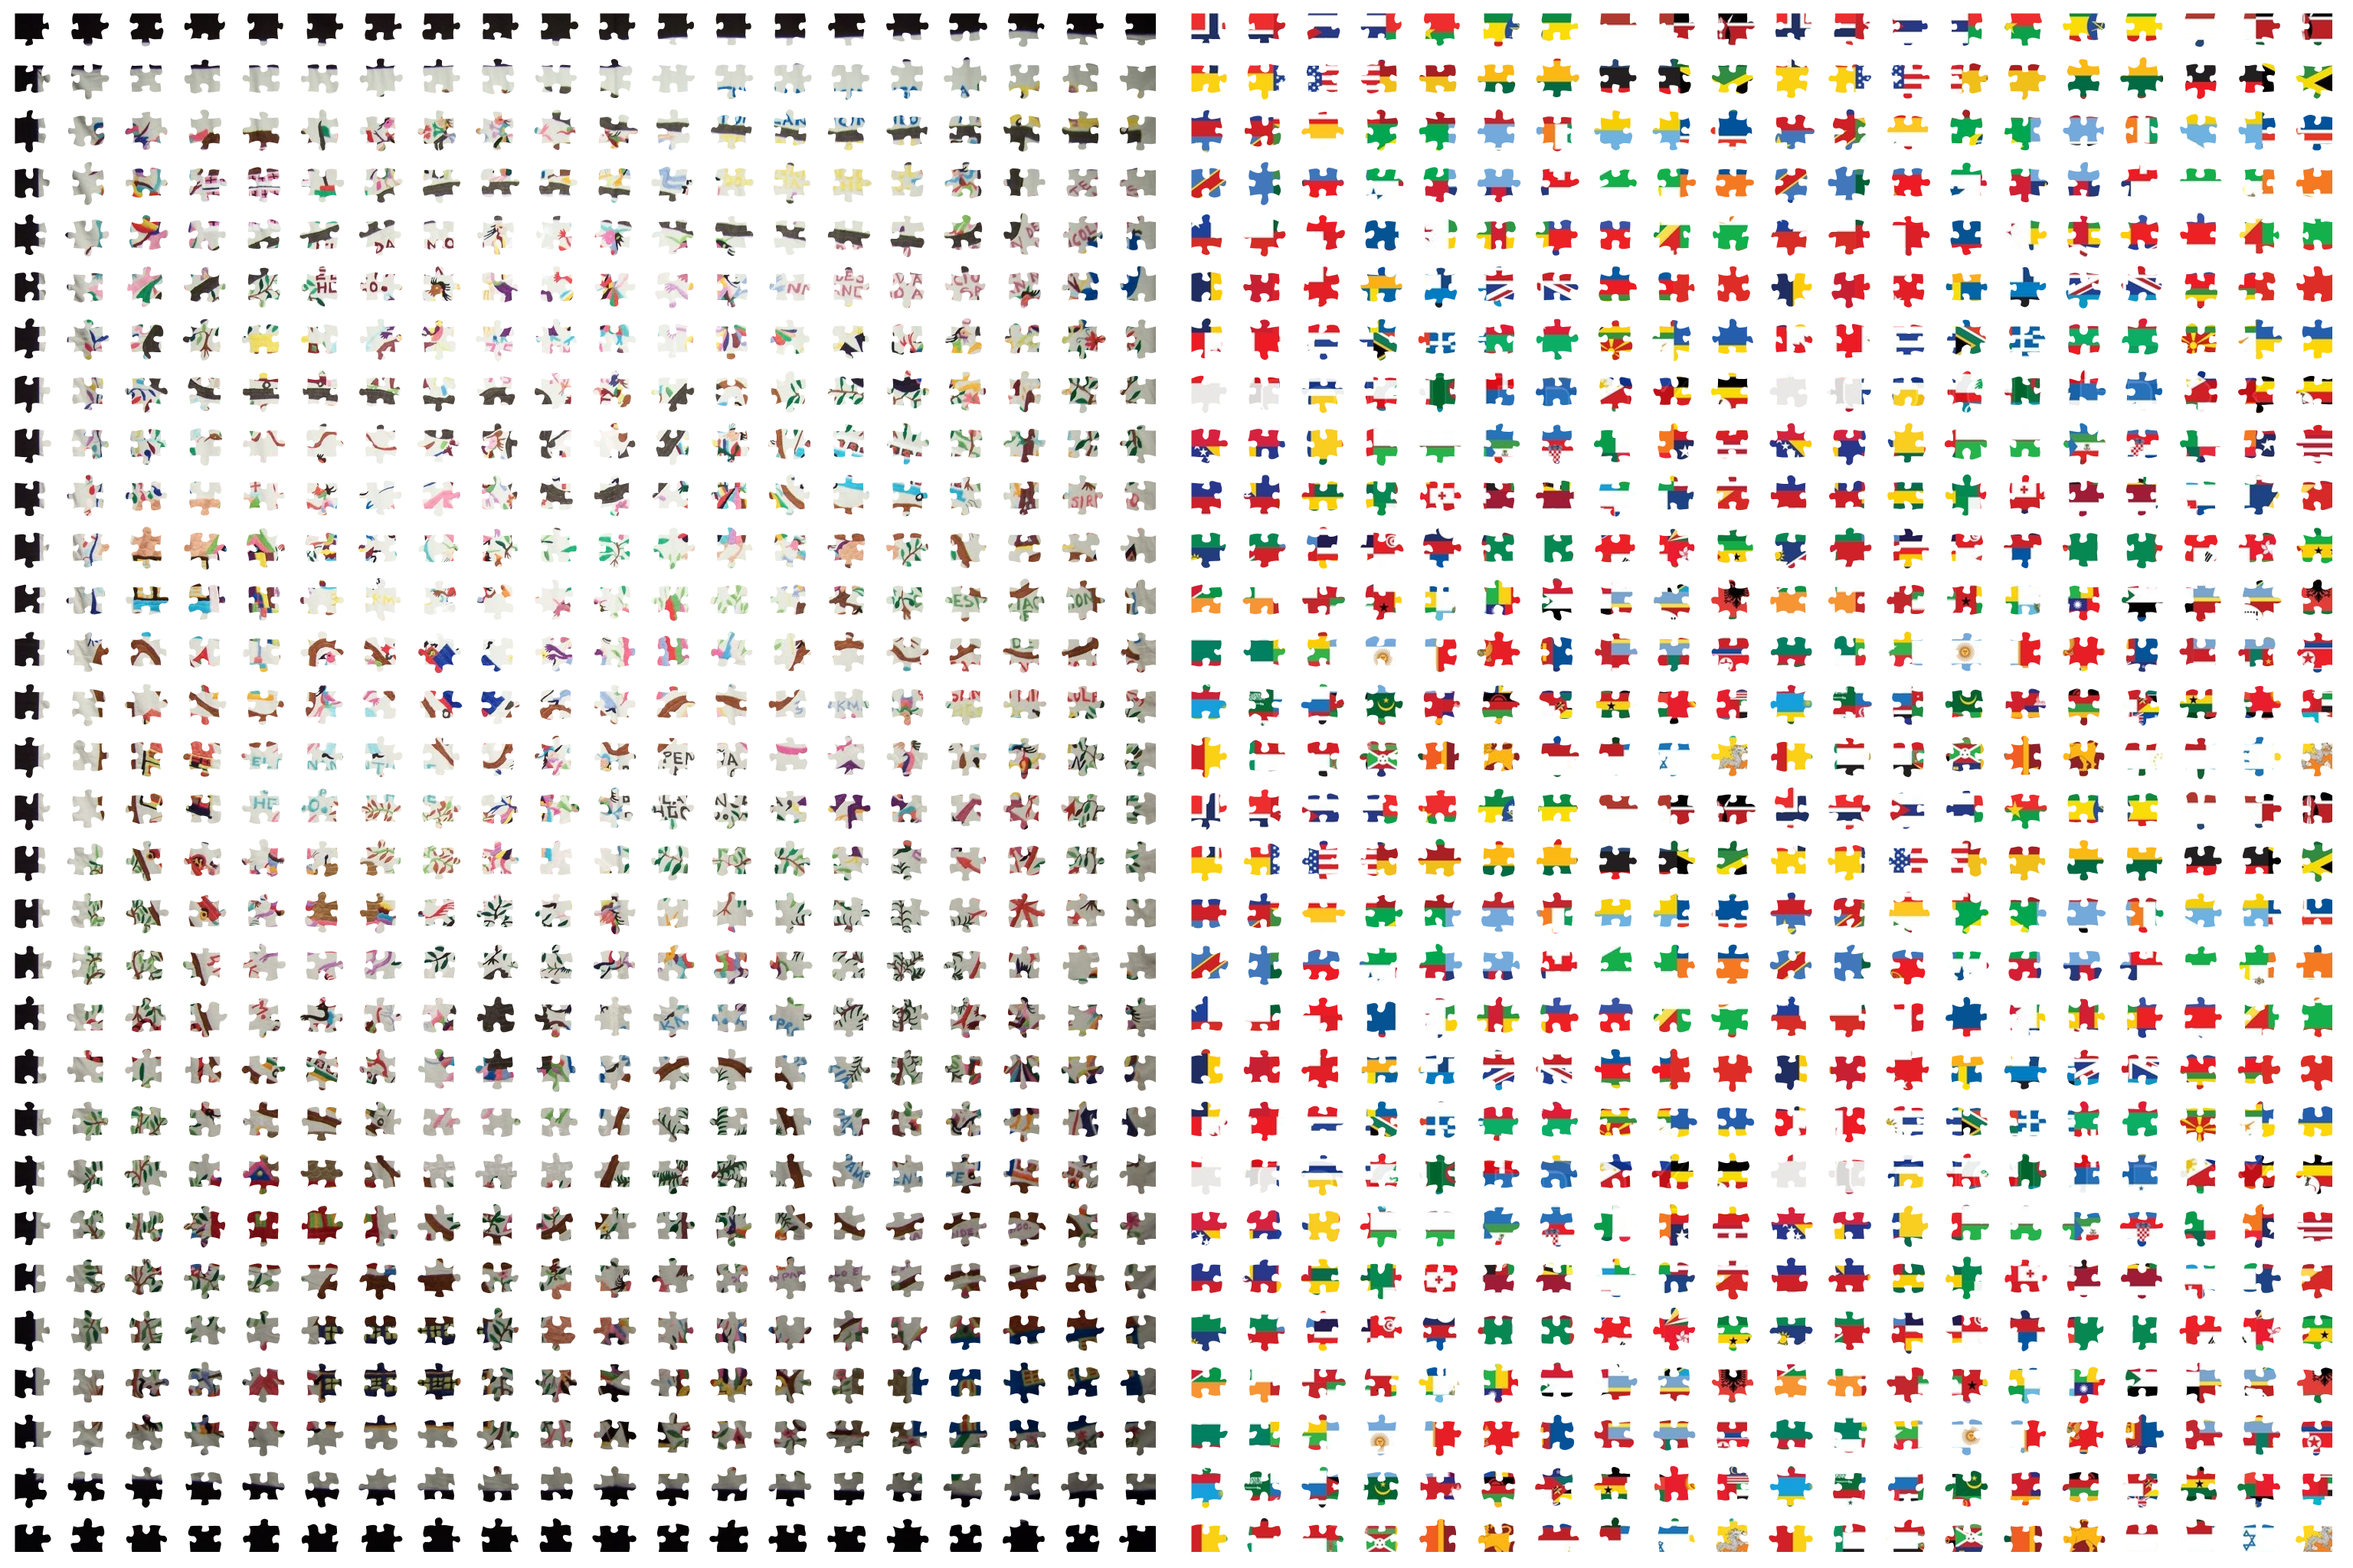
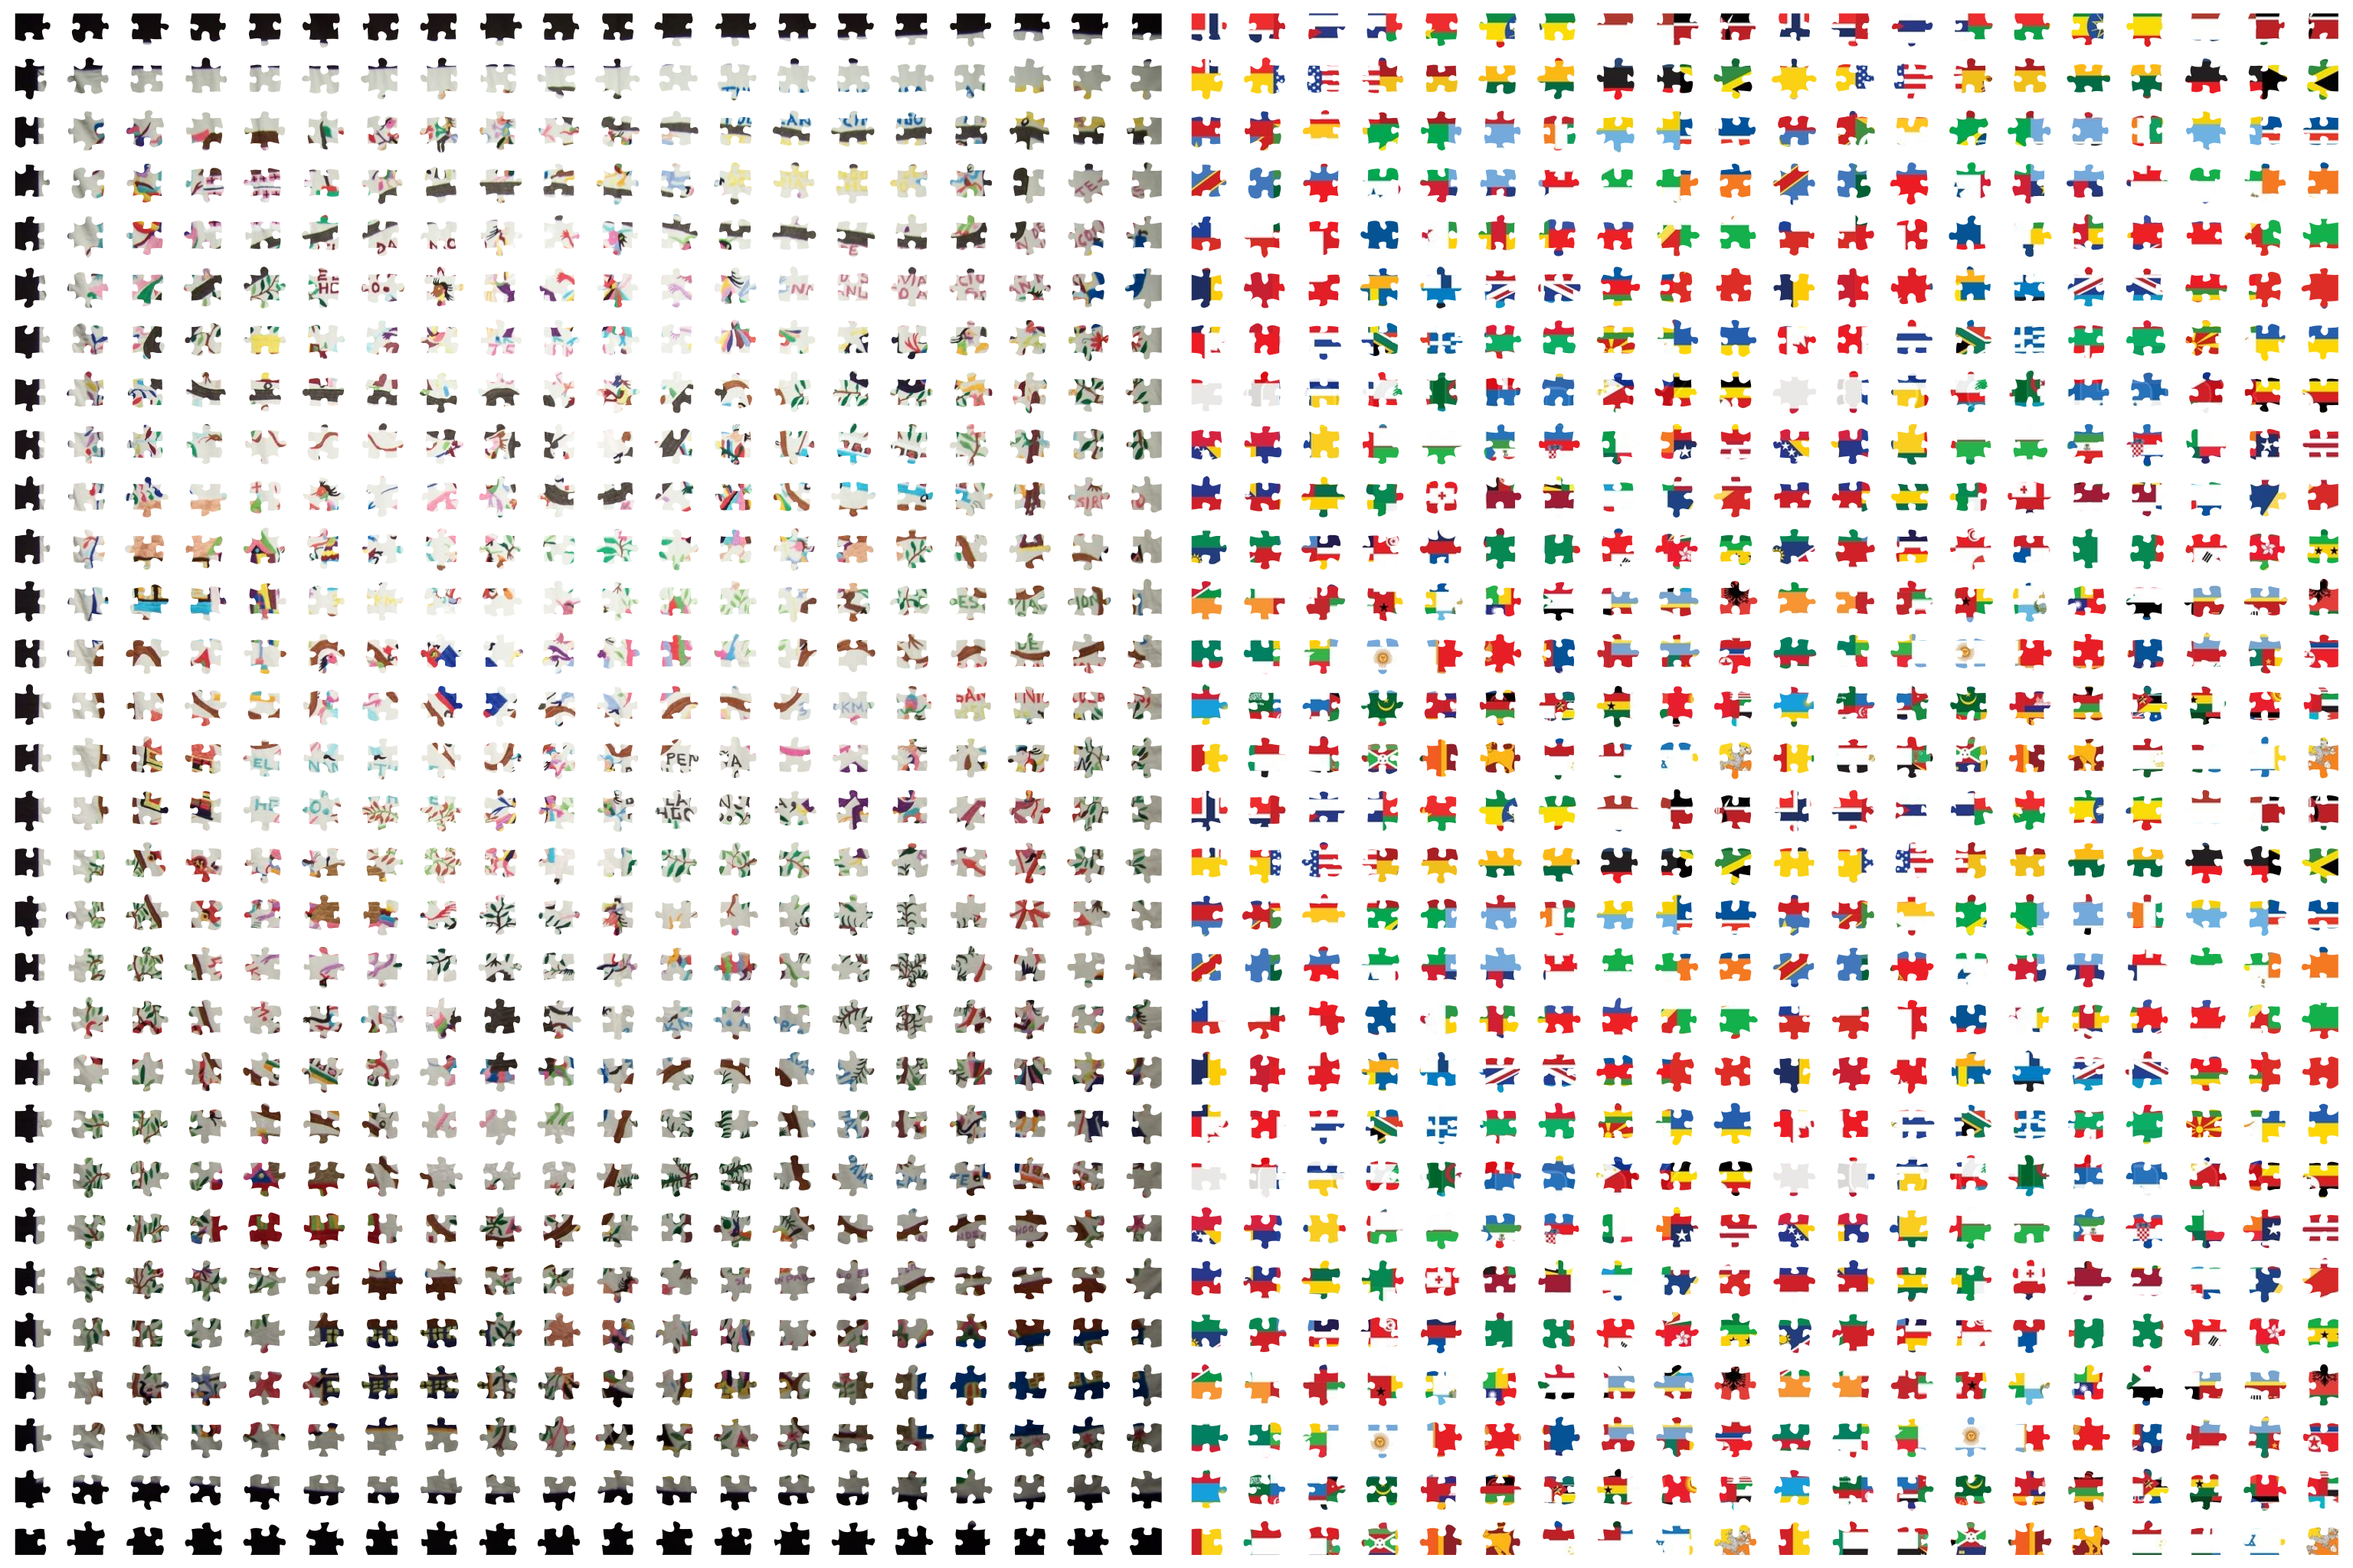
work in progress

Changed region(s): [[0.0, 0.0, 1.0, 1.0], [0.0625, 0.0, 0.0938, 0.0312]]

diff --git a/ts/flagpuzzle.js b/ts/flagpuzzle.js
@@ -2,17 +2,23 @@
 /// <reference path="jquery.d.ts" />
 /// <reference path="./tools/quads.ts" />
 var Vector2 = THREE.Vector2;
+var OrthographicCamera = THREE.OrthographicCamera;
 var Render = (function () {
     function Render() {
         this.rad = 0;
         this.scene = new THREE.Scene();
-        this.camera = new THREE.PerspectiveCamera(90, 768 / 1024, 1, 10000);
+        this.camera = new OrthographicCamera(-768 / 2, 768 / 2, 1024 / 2, -1024 / 2); //THREE.PerspectiveCamera(90, 768 / 1024, 1, 10000);
         this.camera.position.z = 1024 / 2;
         //let geometry = new THREE.PlaneGeometry(768,1024);//THREE.BoxGeometry( 200, 1024, 200 );
         //let material = new THREE.MeshBasicMaterial( { color: 0xff0000, wireframe: true } )
         var texture = THREE.ImageUtils.loadTexture("images/destination.png");
         texture.minFilter = THREE.NearestFilter;
-        var material1 = new THREE.MeshBasicMaterial({ color: 0xffffff, map: texture, transparent: true, depthWrite: false });
+        var material1 = new THREE.MeshBasicMaterial({
+            color: 0xffffff,
+            map: texture,
+            transparent: true,
+            depthWrite: false
+        });
         this.quads = new Quads(20, 30, 768, 1024);
         var geometry = this.quads.getGeometry();
         var mesh = new THREE.Mesh(geometry, material1);
@@ -34,7 +40,7 @@ var Render = (function () {
         };
     };
     Render.prototype.render = function () {
-        this.rad += 0.2;
+        this.rad += .1;
         for (var j = 0; j < 30; j++) {
             for (var i = 0; i < 20; i++) {
                 var rad = Math.min(Math.PI, Math.max(0, this.rad - 0.2 * (i + 20 * j)));

diff --git a/ts/flagpuzzle.ts b/ts/flagpuzzle.ts
@@ -3,6 +3,7 @@
 /// <reference path="./tools/quads.ts" />
 
 import Vector2 = THREE.Vector2;
+import OrthographicCamera = THREE.OrthographicCamera;
 class Render {
 
     private scene: THREE.Scene;
@@ -16,7 +17,7 @@ class Render {
 
         this.scene = new THREE.Scene();
 
-        this.camera = new THREE.PerspectiveCamera(90, 768 / 1024, 1, 10000);
+        this.camera = new OrthographicCamera(-768/2, 768/2, 1024/2, -1024/2)//THREE.PerspectiveCamera(90, 768 / 1024, 1, 10000);
         this.camera.position.z = 1024 / 2;
 
         //let geometry = new THREE.PlaneGeometry(768,1024);//THREE.BoxGeometry( 200, 1024, 200 );
@@ -24,7 +25,12 @@ class Render {
 
         var texture = THREE.ImageUtils.loadTexture("images/destination.png");
         texture.minFilter = THREE.NearestFilter;
-        let material1 = new THREE.MeshBasicMaterial({color: 0xffffff, map: texture, transparent: true, depthWrite: false});
+        let material1 = new THREE.MeshBasicMaterial({
+            color: 0xffffff,
+            map: texture,
+            transparent: true,
+            depthWrite: false
+        });
         this.quads = new Quads(20, 30, 768, 1024);
         var geometry: THREE.Geometry = this.quads.getGeometry();
         var mesh = new THREE.Mesh(geometry, material1);
@@ -52,7 +58,7 @@ class Render {
     }
 
     public render() {
-        this.rad += 0.2;
+        this.rad += .1;
         for (var j = 0; j < 30; j++) {
             for (var i = 0; i < 20; i++) {
                 var rad = Math.min(Math.PI, Math.max(0, this.rad - 0.2 * (i + 20 * j)))
